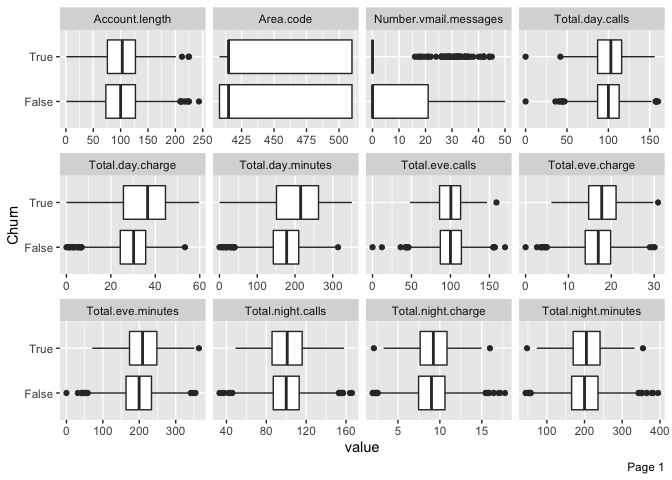
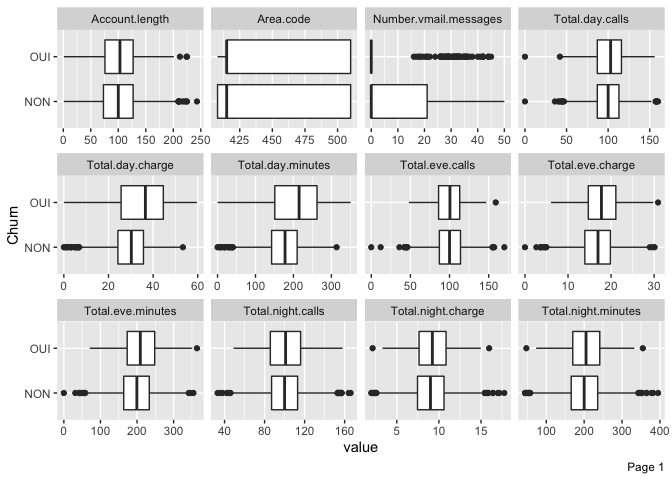
final commit

diff --git a/churn.md b/churn.md
@@ -17,10 +17,41 @@ this
     library(DataExplorer)
     library(kknn)
     library(themis)
+    library(glmnet)
+    library(rpart)
+    library(readr)
+    library(kableExtra)
 
 ## import our data
 
     churn<- read.csv("https://raw.githubusercontent.com/36006509/telecom_churn-repo/main/churn-bigml-80.csv",stringsAsFactors = TRUE)
+    #churn[is.double(churn)]<- as.integer(churn[is.double(churn)])
+    #churn[is.integer(churn)]<- as.numeric(churn[is.integer(churn)])
+    churn$Churn<-if_else(churn$Churn=="False","NON","OUI")
+    churn$Churn<- as.factor(churn$Churn)
+    str(churn)
+
+    ## 'data.frame':    2666 obs. of  20 variables:
+    ##  $ State                 : Factor w/ 51 levels "AK","AL","AR",..: 17 36 32 36 37 2 20 25 50 40 ...
+    ##  $ Account.length        : int  128 107 137 84 75 118 121 147 141 74 ...
+    ##  $ Area.code             : int  415 415 415 408 415 510 510 415 415 415 ...
+    ##  $ International.plan    : Factor w/ 2 levels "No","Yes": 1 1 1 2 2 2 1 2 2 1 ...
+    ##  $ Voice.mail.plan       : Factor w/ 2 levels "No","Yes": 2 2 1 1 1 1 2 1 2 1 ...
+    ##  $ Number.vmail.messages : int  25 26 0 0 0 0 24 0 37 0 ...
+    ##  $ Total.day.minutes     : num  265 162 243 299 167 ...
+    ##  $ Total.day.calls       : int  110 123 114 71 113 98 88 79 84 127 ...
+    ##  $ Total.day.charge      : num  45.1 27.5 41.4 50.9 28.3 ...
+    ##  $ Total.eve.minutes     : num  197.4 195.5 121.2 61.9 148.3 ...
+    ##  $ Total.eve.calls       : int  99 103 110 88 122 101 108 94 111 148 ...
+    ##  $ Total.eve.charge      : num  16.78 16.62 10.3 5.26 12.61 ...
+    ##  $ Total.night.minutes   : num  245 254 163 197 187 ...
+    ##  $ Total.night.calls     : int  91 103 104 89 121 118 118 96 97 94 ...
+    ##  $ Total.night.charge    : num  11.01 11.45 7.32 8.86 8.41 ...
+    ##  $ Total.intl.minutes    : num  10 13.7 12.2 6.6 10.1 6.3 7.5 7.1 11.2 9.1 ...
+    ##  $ Total.intl.calls      : int  3 3 5 7 3 6 7 6 5 5 ...
+    ##  $ Total.intl.charge     : num  2.7 3.7 3.29 1.78 2.73 1.7 2.03 1.92 3.02 2.46 ...
+    ##  $ Customer.service.calls: int  1 1 0 2 3 0 3 0 0 0 ...
+    ##  $ Churn                 : Factor w/ 2 levels "NON","OUI": 1 1 1 1 1 1 1 1 1 1 ...
 
 ## Exploratory Data Analysis
 
@@ -52,7 +83,7 @@ Now, let’s see under the wood all the features
     ##  $ Total.intl.calls      : int  3 3 5 7 3 6 7 6 5 5 ...
     ##  $ Total.intl.charge     : num  2.7 3.7 3.29 1.78 2.73 1.7 2.03 1.92 3.02 2.46 ...
     ##  $ Customer.service.calls: int  1 1 0 2 3 0 3 0 0 0 ...
-    ##  $ Churn                 : Factor w/ 2 levels "False","True": 1 1 1 1 1 1 1 1 1 1 ...
+    ##  $ Churn                 : Factor w/ 2 levels "NON","OUI": 1 1 1 1 1 1 1 1 1 1 ...
 
 only 20% of our columns are discrete and their is no missing observation
 which is a good thing.
@@ -66,8 +97,8 @@ which is a good thing.
       mutate(p=n/sum(n))
 
     ##   Churn    n         p
-    ## 1 False 2278 0.8544636
-    ## 2  True  388 0.1455364
+    ## 1   NON 2278 0.8544636
+    ## 2   OUI  388 0.1455364
 
 we can see that almost 86 percent of the clients are not churner. So, it
 seems like we are facing an imbalanced data. to fix that we need to we
@@ -121,12 +152,327 @@ modelisation. We’ll do the same thing for all correlated features.
 
     churn_rec<- recipe(Churn ~., data = churn_train) %>% 
       #set the event/reference level to 'good'
-      step_relevel(churn, ref_level = 'True') %>% 
-      
+      step_relevel(Churn, ref_level = 'OUI') %>% 
       
       #normalize all numeric variables
       step_normalize(all_numeric()) %>% 
       
+      step_corr(all_numeric_predictors(),threshold = 0.6)%>%
+      
       #turn all the factors into dummies and delete the reference level
       step_dummy(all_nominal(), -all_outcomes()) %>% 
       step_smote(Churn)
+
+## Model specification using parsnip and tune
+
+let’s now dive into the modelisation. Each model that we ’ll be using
+needs some hyperparameter tuning.
+
+-   Logistic Regression
+
+-   K nearest neighbor
+
+-   Random forest
+
+-   Decision tree
+
+<!-- -->
+
+    #logistic regression
+    logit_tuned <- logistic_reg(penalty = tune(), 
+                                mixture = tune()) %>%
+      set_engine('glmnet') %>%
+      set_mode('classification')
+
+    #Decision Tree
+
+    dt_tuned <- decision_tree(cost_complexity = tune(),
+                                   tree_depth = tune(),
+                                   min_n = tune()) %>%
+      set_engine('rpart') %>%
+      set_mode('classification')
+
+## Modeling
+
+### Workflowset
+
+    #make a list out of the models
+    models <- list(logit = logit_tuned,
+                   dt = dt_tuned)
+    #incorporate them in a set of workflow
+    churn_wflow_set <- workflow_set(preproc = list(rec=churn_rec), 
+                                   models = models, 
+                                   cross = TRUE)  
+    #metrics we want for each model 
+    #we want : accuracy, sensitivity, specificity, area under the roc curve 
+    churn_metrics <- metric_set(accuracy, sens, spec, roc_auc)
+
+### Tune the model
+
+    wflow_set_grid_results <- churn_wflow_set %>% 
+      workflow_map(
+      #tune_grid() parameters
+        resamples = churn_folds,
+        grid = 10,
+        metrics = churn_metrics,
+      #workflow_map() own parameters
+        seed = 3,
+        verbose = TRUE)
+
+    ## i 1 of 2 tuning:     rec_logit
+
+    ## ✓ 1 of 2 tuning:     rec_logit (47.4s)
+
+    ## i 2 of 2 tuning:     rec_dt
+
+    ## ✓ 2 of 2 tuning:     rec_dt (41.9s)
+
+    wflow_set_grid_results %>% 
+      rank_results(rank_metric = "accuracy", select_best = TRUE) %>% 
+      filter(.metric == "accuracy" | .metric == "sens" | .metric == "spec" )%>% 
+      kbl() %>% 
+      kable_styling() %>% 
+      scroll_box(width = "100%", height = "200px")
+
+<table class="table" style="margin-left: auto; margin-right: auto;">
+<thead>
+<tr>
+<th style="text-align:left;position: sticky; top:0; background-color: #FFFFFF;">
+wflow\_id
+</th>
+<th style="text-align:left;position: sticky; top:0; background-color: #FFFFFF;">
+.config
+</th>
+<th style="text-align:left;position: sticky; top:0; background-color: #FFFFFF;">
+.metric
+</th>
+<th style="text-align:right;position: sticky; top:0; background-color: #FFFFFF;">
+mean
+</th>
+<th style="text-align:right;position: sticky; top:0; background-color: #FFFFFF;">
+std\_err
+</th>
+<th style="text-align:right;position: sticky; top:0; background-color: #FFFFFF;">
+n
+</th>
+<th style="text-align:left;position: sticky; top:0; background-color: #FFFFFF;">
+preprocessor
+</th>
+<th style="text-align:left;position: sticky; top:0; background-color: #FFFFFF;">
+model
+</th>
+<th style="text-align:right;position: sticky; top:0; background-color: #FFFFFF;">
+rank
+</th>
+</tr>
+</thead>
+<tbody>
+<tr>
+<td style="text-align:left;">
+rec\_dt
+</td>
+<td style="text-align:left;">
+Preprocessor1\_Model03
+</td>
+<td style="text-align:left;">
+accuracy
+</td>
+<td style="text-align:right;">
+0.9354986
+</td>
+<td style="text-align:right;">
+0.0061999
+</td>
+<td style="text-align:right;">
+5
+</td>
+<td style="text-align:left;">
+recipe
+</td>
+<td style="text-align:left;">
+decision\_tree
+</td>
+<td style="text-align:right;">
+1
+</td>
+</tr>
+<tr>
+<td style="text-align:left;">
+rec\_dt
+</td>
+<td style="text-align:left;">
+Preprocessor1\_Model03
+</td>
+<td style="text-align:left;">
+sens
+</td>
+<td style="text-align:right;">
+0.7667446
+</td>
+<td style="text-align:right;">
+0.0361727
+</td>
+<td style="text-align:right;">
+5
+</td>
+<td style="text-align:left;">
+recipe
+</td>
+<td style="text-align:left;">
+decision\_tree
+</td>
+<td style="text-align:right;">
+1
+</td>
+</tr>
+<tr>
+<td style="text-align:left;">
+rec\_dt
+</td>
+<td style="text-align:left;">
+Preprocessor1\_Model03
+</td>
+<td style="text-align:left;">
+spec
+</td>
+<td style="text-align:right;">
+0.9642898
+</td>
+<td style="text-align:right;">
+0.0074567
+</td>
+<td style="text-align:right;">
+5
+</td>
+<td style="text-align:left;">
+recipe
+</td>
+<td style="text-align:left;">
+decision\_tree
+</td>
+<td style="text-align:right;">
+1
+</td>
+</tr>
+<tr>
+<td style="text-align:left;">
+rec\_logit
+</td>
+<td style="text-align:left;">
+Preprocessor1\_Model10
+</td>
+<td style="text-align:left;">
+accuracy
+</td>
+<td style="text-align:right;">
+0.7884994
+</td>
+<td style="text-align:right;">
+0.0063073
+</td>
+<td style="text-align:right;">
+5
+</td>
+<td style="text-align:left;">
+recipe
+</td>
+<td style="text-align:left;">
+logistic\_reg
+</td>
+<td style="text-align:right;">
+2
+</td>
+</tr>
+<tr>
+<td style="text-align:left;">
+rec\_logit
+</td>
+<td style="text-align:left;">
+Preprocessor1\_Model10
+</td>
+<td style="text-align:left;">
+sens
+</td>
+<td style="text-align:right;">
+0.6566335
+</td>
+<td style="text-align:right;">
+0.0322341
+</td>
+<td style="text-align:right;">
+5
+</td>
+<td style="text-align:left;">
+recipe
+</td>
+<td style="text-align:left;">
+logistic\_reg
+</td>
+<td style="text-align:right;">
+2
+</td>
+</tr>
+<tr>
+<td style="text-align:left;">
+rec\_logit
+</td>
+<td style="text-align:left;">
+Preprocessor1\_Model10
+</td>
+<td style="text-align:left;">
+spec
+</td>
+<td style="text-align:right;">
+0.8109996
+</td>
+<td style="text-align:right;">
+0.0089976
+</td>
+<td style="text-align:right;">
+5
+</td>
+<td style="text-align:left;">
+recipe
+</td>
+<td style="text-align:left;">
+logistic\_reg
+</td>
+<td style="text-align:right;">
+2
+</td>
+</tr>
+</tbody>
+</table>
+
+    #plot the performance of each model by rank
+    wflow_set_grid_results %>% 
+      autoplot(rank_metric= "roc_auc", 
+               metric = "roc_auc")
+
+![](churn_files/figure-markdown_strict/plot-1.png)
+
+    #take the best result
+    best_results <- wflow_set_grid_results %>% 
+      pull_workflow_set_result("rec_dt") %>% 
+      select_best(metric = "roc_auc")
+
+    best_results
+
+    ## # A tibble: 1 x 4
+    ##   cost_complexity tree_depth min_n .config              
+    ##             <dbl>      <int> <int> <chr>                
+    ## 1    0.0000000459          8    18 Preprocessor1_Model03
+
+    #fit the best model
+    final_fit <- wflow_set_grid_results %>% 
+      pull_workflow("rec_dt") %>% 
+      finalize_workflow(best_results) %>% 
+      last_fit(churn_split) 
+
+    pred<-final_fit %>% collect_predictions()
+    conf_mat(pred,
+             truth = Churn,
+             estimate = .pred_class)%>%
+      autoplot(type="heatmap")
+
+![](churn_files/figure-markdown_strict/prediction-1.png)
